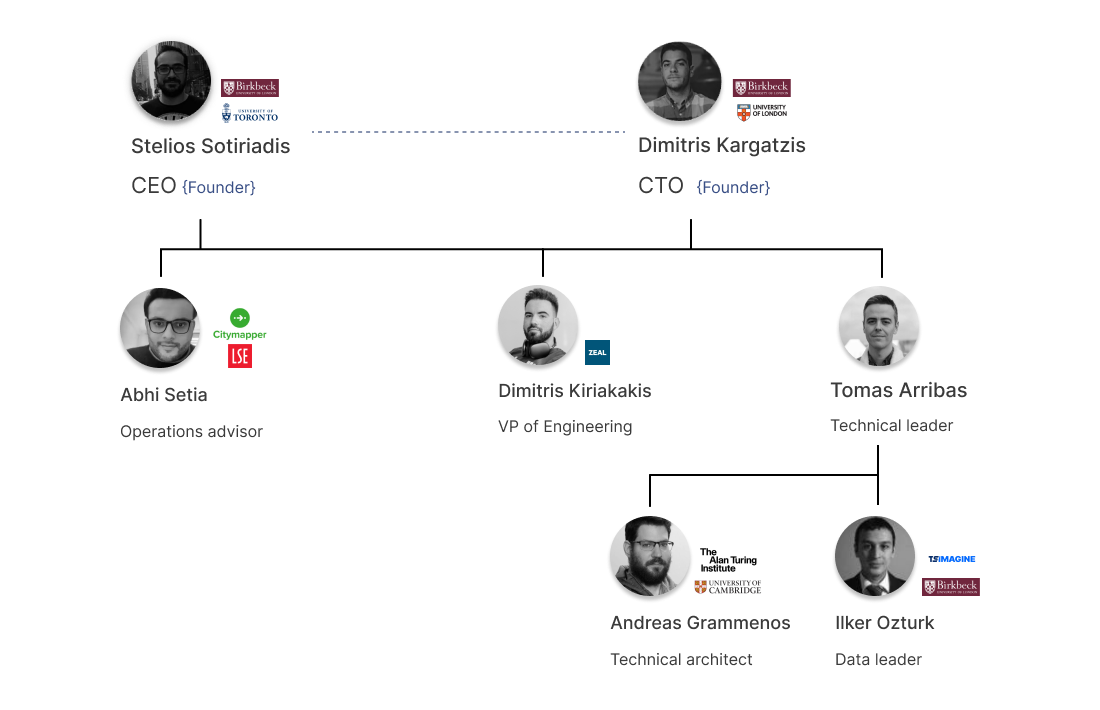
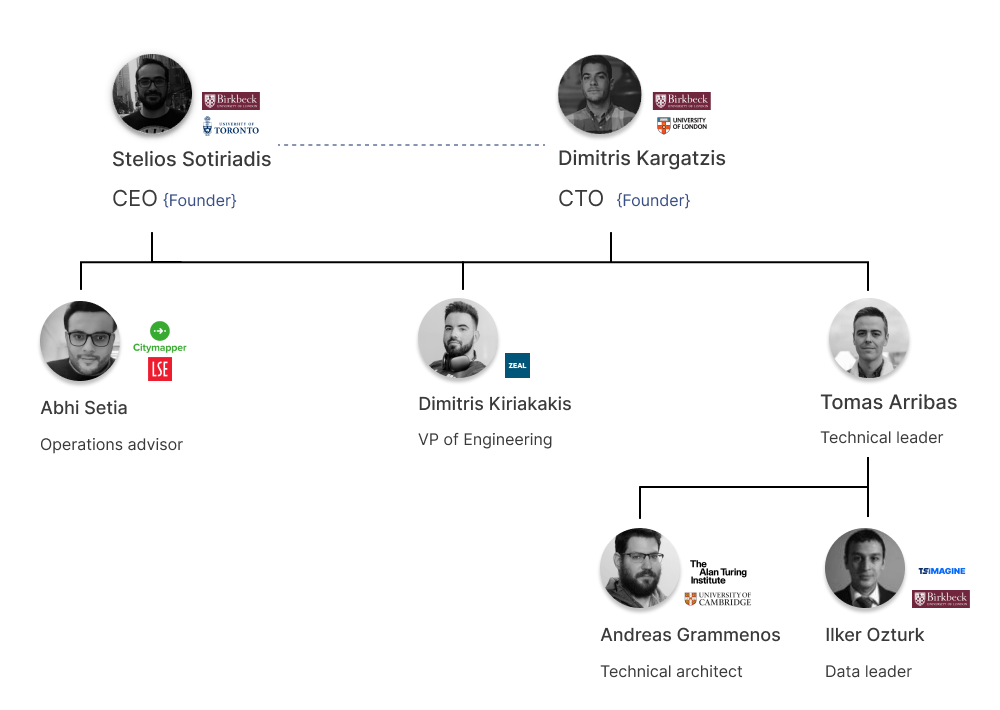
Pushing updated mkdocs v2

diff --git a/docs/2_team_hierarchy.md b/docs/2_team_hierarchy.md
@@ -3,7 +3,7 @@
 A team with a strong technological and operational background.
 
 ## Team hierarchy
-<img src="../assets/images/core-team.png" alt="Stelios" width=750"/>
+<img src="../assets/images/core-team.png" alt="Stelios" width=1250"/>
 
 ## Core team members
 
